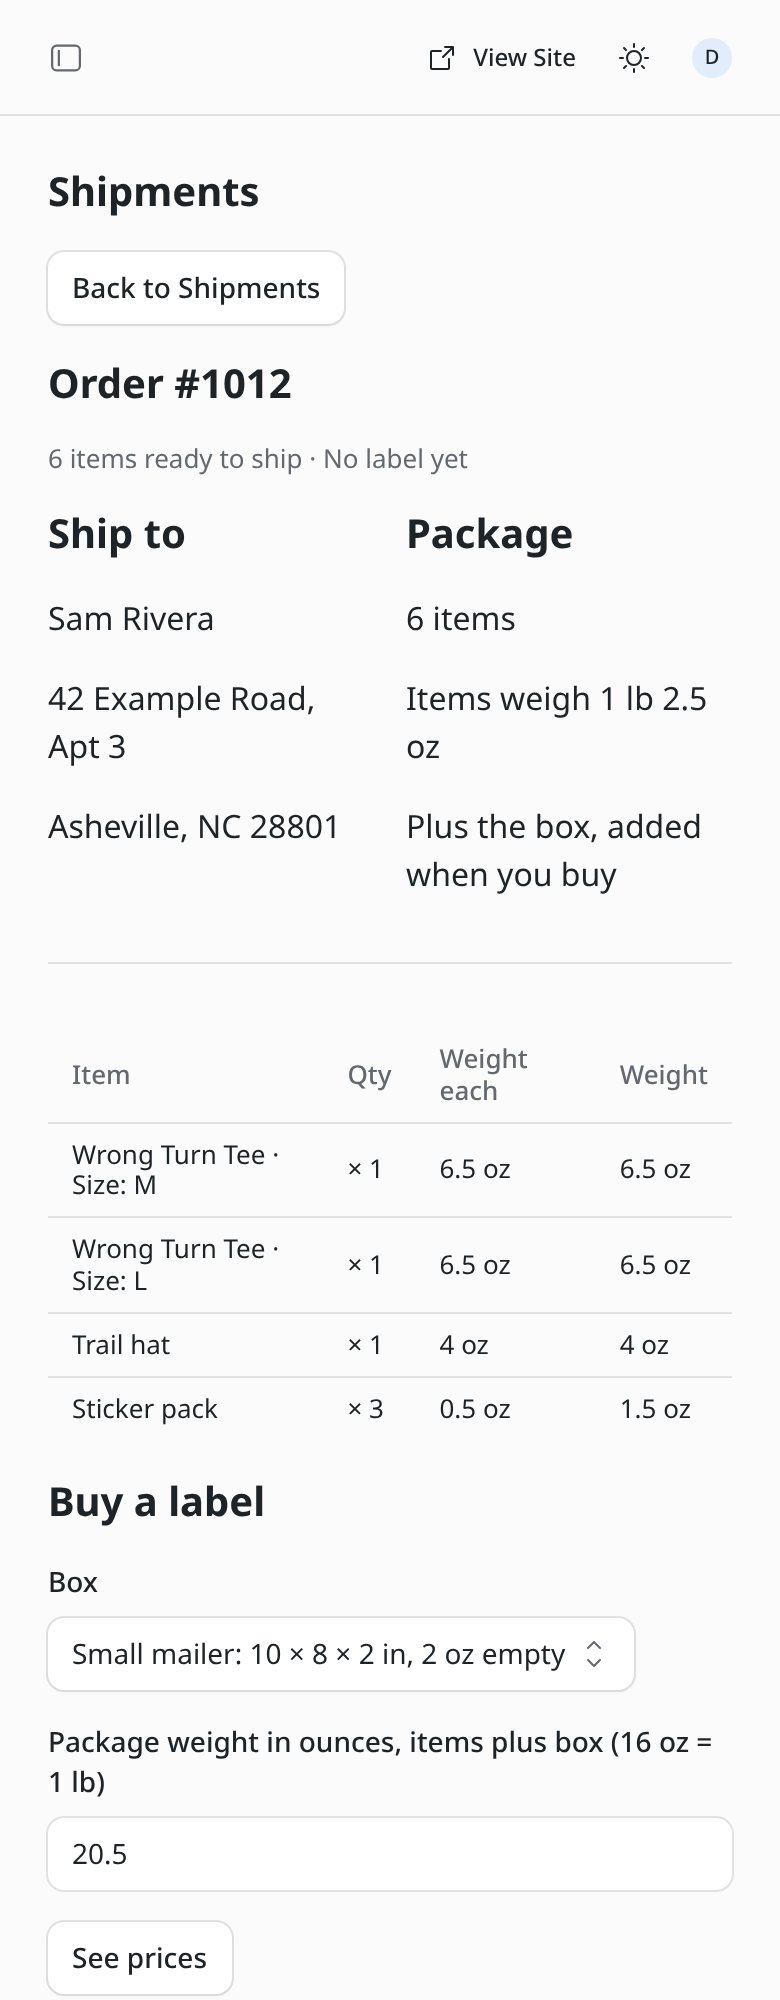
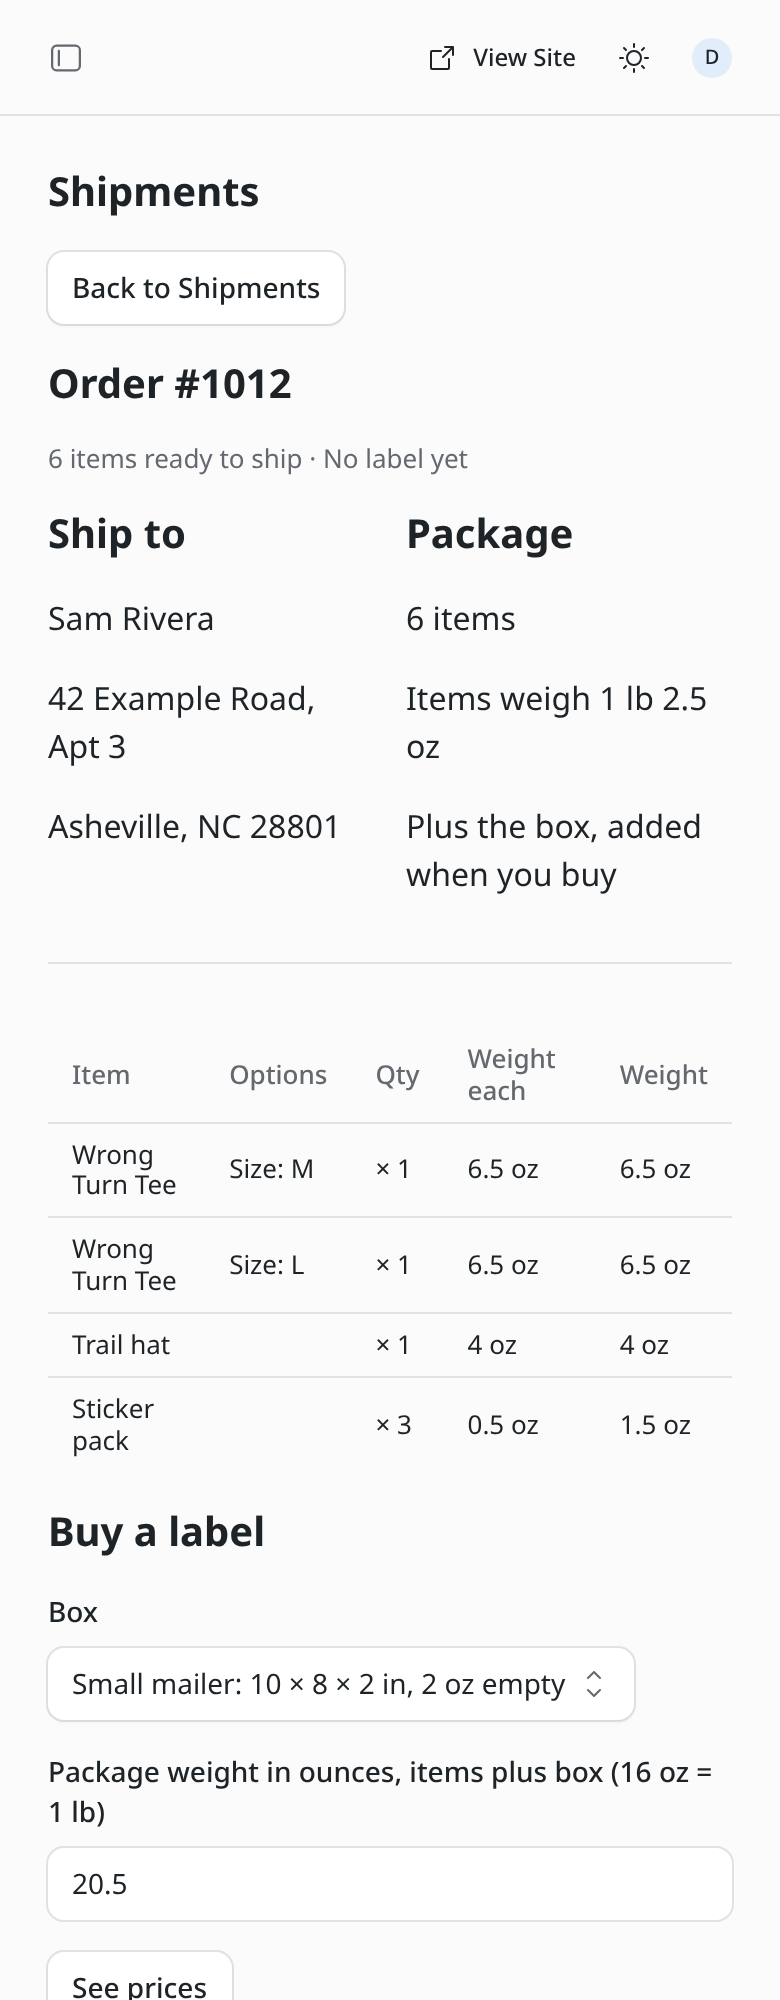
Show item options in their own Options column on the Shipments order page
Ronald found 'Wrong Turn Tee · Size: M' merged into one run of text on a
phone. Block Kit table cells are plain text with no grey or smaller type, so
the choice moves to an Options column (as on Commerce's order page), shown
only when an item has options.

Claude-Session: https://claude.ai/code/session_01Vn8pk8vy8ZzqhYqPrdkPtE

diff --git a/src/pages.ts b/src/pages.ts
@@ -288,8 +288,9 @@ export function orderPage(view: OrderView, toast?: Toast): BlockResponse {
     blocks.push(section("This order is Completed in Commerce, so Ship makes no label for it. Move it back to Processing in Commerce's Orders page first."));
   }
   blocks.push({ type: "table", page_action_id: "items", columns: [
-    { key: "item", label: "Item" }, { key: "quantity", label: "Qty" }, { key: "each", label: "Weight each" }, { key: "total", label: "Weight" },
-  ], rows: order.lines.slice(0, ROWS_SHOWN).map(line => ({ item: line.options ? `${line.name} · ${line.options}` : line.name, quantity: `× ${line.quantity}`,
+    { key: "item", label: "Item" }, ...(order.lines.some(line => line.options) ? [{ key: "options", label: "Options" }] : []),
+    { key: "quantity", label: "Qty" }, { key: "each", label: "Weight each" }, { key: "total", label: "Weight" },
+  ], rows: order.lines.slice(0, ROWS_SHOWN).map(line => ({ item: line.name, options: line.options ?? "", quantity: `× ${line.quantity}`,
     each: line.weightOz === null ? "Not set" : weight(line.weightOz), total: line.weightOz === null ? "Not set" : weight(line.weightOz * line.quantity) })) }, ...more(order.lines.length, "item", "items"));
   if (missing && !label && order.status === "processing") {
     blocks.push(banner("alert", "Item weights missing", "Some items have no weight in Commerce. Weigh the whole package and update Package weight before checking prices or buying a label."));

diff --git a/docs/website/reference/ship.md b/docs/website/reference/ship.md
@@ -35,7 +35,7 @@ A store upgraded from `0.2.1` does not use its old pasted key. The Shipments pag
 ## Buy a label
 
 1. Open **Dinkus Ship > Shipments** in the store admin. Counts at the top show how many orders are **To ship**, need you to **Fix address**, and are **On the way**. Each row shows the order number (press it to open the order), who it goes to (name and city) and a status with a coloured dot: yellow **Needs label**; red **Fix address**, **Label cancelled** or **Delivery problem**; blue **Label bought**, **In transit** or **Out for delivery**; green **Delivered**; white **Completed** (finished in Commerce without a Ship label).
-2. The order page shows **Ship to** on its address lines beside **Package** (the item count and what the items weigh), then the items with their weights. An item with options shows the shopper's choices beside its name, such as Wrong Turn Tee · Size: M, so two sizes of one product show apart (Ship's own order page shows them under the name). Weights read in pounds and ounces, such as 1 lb 4.5 oz. A very large order shows its first 50 items and its 50 newest labels, then says how many more there are; **Open in Ship** lists them all.
+2. The order page shows **Ship to** on its address lines beside **Package** (the item count and what the items weigh), then the items with their weights. When any item has options, an **Options** column shows the shopper's choices, such as Size: M, so two sizes of one product show apart (Ship's own order page shows them in grey under the name). Weights read in pounds and ounces, such as 1 lb 4.5 oz. A very large order shows its first 50 items and its 50 newest labels, then says how many more there are; **Open in Ship** lists them all.
 3. Under **Buy a label**, check the box and the package weight in ounces (items plus box), then press **See prices**. Pick a USPS service from the list, which shows each service with its price: USPS Ground Advantage (the default), Priority Mail or Priority Mail Express.
 4. Press **Buy label**. Nothing is bought without this press.
 5. Press **Print label**. The PDF opens in a new tab through a link that works for five minutes and only for that label.

diff --git a/proof/item-options-20261113/PROOF.md b/proof/item-options-20261113/PROOF.md
@@ -10,8 +10,10 @@ All names and addresses are made up (example.test).
 - **Store admin Shipments order page** (EmDash 1.4.0 admin, Ship's built
   plugin handler against a fake hosted Ship): `before-admin-order-*.png` is
   this branch before the change, `after-admin-order-*.png` shows
-  "Wrong Turn Tee · Size: M" and "· Size: L" in the Item cell (a Block Kit table
-  cell holds one line of text, so the choice follows a dot).
+  "Size: M" and "Size: L" in an Options column beside the item (a Block Kit
+  table cell is plain text with no grey or smaller type, so the choice gets its
+  own column, as on Commerce's order page; the column only appears when an item
+  has options).
 - **Ship's own order page** (`orderPage` from `service/src/pages.ts`, rendered
   with a fixture and captured in Chromium): `before-hosted-order-*.png` is the
   same order without `options`, as Ship shows every order today;
@@ -21,7 +23,8 @@ All names and addresses are made up (example.test).
 Tests: `service/spec/intake.spec.ts` (kept, trimmed; a line break, over 200
 characters or a non-string is dropped and the order is still taken),
 `service/spec/pages.spec.ts` (grey line, escaped), `tests/admin.test.mjs`
-(Item cell text; `null` and missing `options` show the name alone).
+(Options column cells; `null` and missing `options` leave the cell empty; an
+order with no options has no Options column).
 
 ## Upgrade compatibility
 

diff --git a/service/README.md b/service/README.md
@@ -39,7 +39,7 @@ Other failures:
 - `shipTo`: name, line1, optional line2, city, optional region, postalCode, and country `US`.
 - `email`.
 - `storeName`, optional: the store's EmDash Site title (`ctx.site.name`), used as the shipped email's sender name. A missing or unusable one is dropped and never refuses the order.
-- `lines`: catalogItemId, name, quantity, optional `weightOz`, and optional `unitPrice` (`{ currency: "USD", minor }`, the whole cents paid per unit before any order-level discount). Commerce starts sending `unitPrice` in the PR after commerce#98. Optional `options` is the shopper's variant choices as one line, such as `Size: M · Colour: Red` (at most 200 characters, from commerce#264); Ship drops an unusable one rather than refusing the order, and shows it with the item name.
+- `lines`: catalogItemId, name, quantity, optional `weightOz`, and optional `unitPrice` (`{ currency: "USD", minor }`, the whole cents paid per unit before any order-level discount). Commerce starts sending `unitPrice` in the PR after commerce#98. Optional `options` is the shopper's variant choices as one line, such as `Size: M · Colour: Red` (at most 200 characters, from commerce#264); Ship drops an unusable one rather than refusing the order, and shows it with the item.
 
 Ship drops every other field. Billing address, payment details, totals, tax and phone are never kept.
 

diff --git a/.changeset/ship-line-options.md b/.changeset/ship-line-options.md
@@ -2,4 +2,4 @@
 "@dinkuskit/ship": patch
 ---
 
-Show the options each shopper chose with the item name (such as "Wrong Turn Tee · Size: M") on the Shipments order page and Ship's own order page, so two sizes of one product no longer look identical when packing. Ship keeps the new optional `options` text on each order line from Commerce and drops an unusable one rather than refusing the order.
+Show the options each shopper chose (such as "Size: M") in an Options column on the Shipments order page and in grey under the item name on Ship's own order page, so two sizes of one product no longer look identical when packing. Ship keeps the new optional `options` text on each order line from Commerce and drops an unusable one rather than refusing the order.
